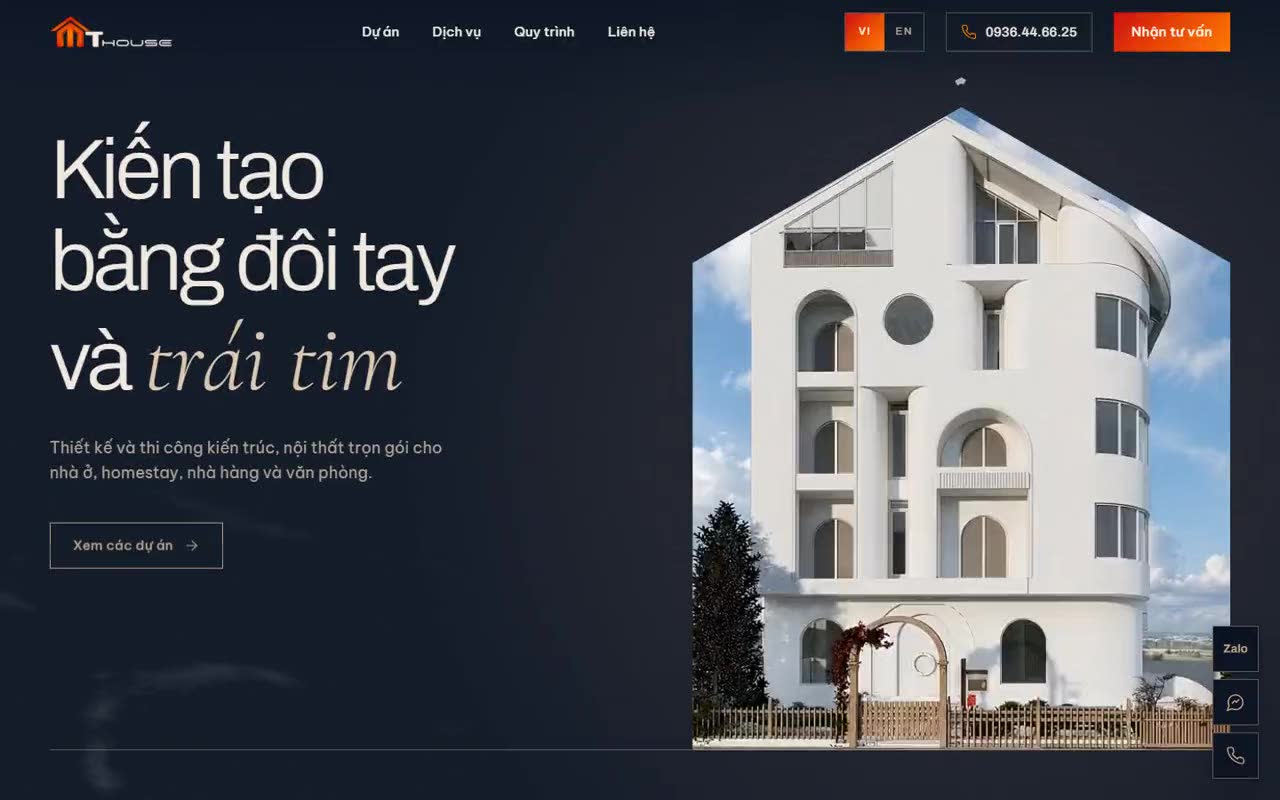
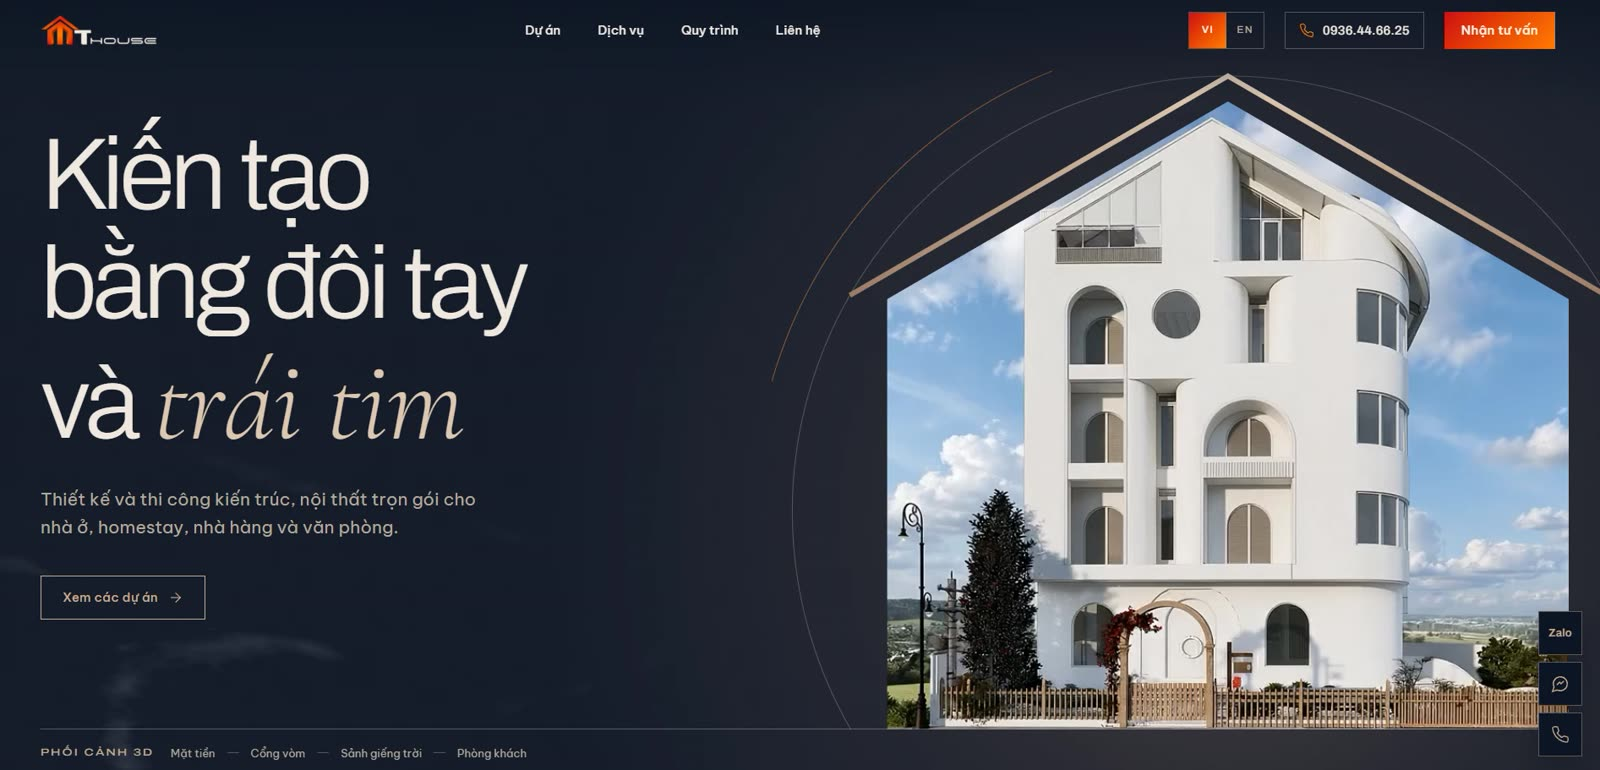
Use provided MTHouse stills, drop feature highlights, hide on mobile
Stages 1 and 2 of the MTHouse.vn feature now use the owner's screenshots
(hero and skylight hall) in a 2:1 frame. The highlights grid and tech chips
under it are removed. The feature block is hidden below 768px so phone
visitors reach the project grid sooner; links to it fall back to the grid.

diff --git a/src/sections/Featured.jsx b/src/sections/Featured.jsx
@@ -9,6 +9,7 @@ const STEP_MS = 3500;
 
 // Khối dự án nổi bật: khung trình duyệt lần lượt hiện các khung hình cắt từ lúc cuộn
 // MTHouse.vn thật (ảnh tĩnh, không dùng video), phóng to dần khi cuộn tới.
+// Ẩn trên điện thoại để người xem tới thẳng danh sách dự án.
 const Featured = () => {
   const frameRef = useRef(null);
   const [active, setActive] = useState(0);
@@ -46,7 +47,7 @@ const Featured = () => {
   }, [inView, hold]);
 
   return (
-    <section id='featured' className='pt-section'>
+    <section id='featured' className='hidden pt-section md:block'>
       <div className='wrap'>
         <motion.div
           initial={{ opacity: 0, y: 32 }}
@@ -87,16 +88,16 @@ const Featured = () => {
             </a>
           </div>
 
-          <div className='relative aspect-[16/10]'>
+          <div className='relative aspect-[2/1]'>
             {featured.frames.map((f, i) => (
               <img
                 key={f.src}
                 src={f.src}
                 alt={`${featured.name}: ${f.caption}`}
-                width='1280'
+                width='1600'
                 height='800'
                 loading='lazy'
-                className={`absolute inset-0 h-full w-full object-cover transition-opacity duration-700 ${
+                className={`absolute inset-0 h-full w-full object-cover object-top transition-opacity duration-700 ${
                   i === active ? "opacity-100" : "opacity-0"
                 }`}
               />
@@ -134,23 +135,7 @@ const Featured = () => {
           </ol>
         </div>
 
-        <div className='mt-12 grid gap-px overflow-hidden rounded-2xl border border-line bg-line sm:grid-cols-2 lg:grid-cols-4'>
-          {featured.highlights.map((h) => (
-            <div key={h.title} className='bg-primary p-6'>
-              <h3 className='text-[22px] font-bold leading-tight text-white'>{h.title}</h3>
-              <p className='mt-2 text-[15px] text-secondary'>{h.text}</p>
-            </div>
-          ))}
-        </div>
-
-        <div className='mt-8 flex flex-wrap items-center justify-between gap-6'>
-          <ul className='flex flex-wrap gap-2' aria-label='Công nghệ sử dụng'>
-            {featured.stack.map((item) => (
-              <li key={item} className='rounded-full border border-line px-3 py-1 text-sm text-white-100'>
-                {item}
-              </li>
-            ))}
-          </ul>
+        <div className='mt-8 flex justify-end'>
           <a href={featured.url} target='_blank' rel='noopener noreferrer' className='cta'>
             Trải nghiệm hiệu ứng cuộn
             <span className='cta__arrow'>↗</span>

diff --git a/src/constants/index.js b/src/constants/index.js
@@ -26,13 +26,6 @@ export const featured = {
   ],
   summary:
     "Website công ty kiến trúc & nội thất MT House. Toàn bộ trang kể chuyện bằng chuyển động theo cuộn: mở đầu phóng vào cổng vòm, công trình trượt ngang, chữ và nét vẽ hiện dần theo nhịp cuộn.",
-  highlights: [
-    { title: "Hero phóng to theo cuộn", text: "Cuộn tới đâu, khung hình tiến sâu vào công trình tới đó." },
-    { title: "Công trình trượt ngang", text: "Section được ghim lại, cuộn dọc biến thành trượt ngang qua từng dự án." },
-    { title: "Chữ & nét vẽ hiện theo nhịp", text: "Tiêu đề tách dòng, bản vẽ tự vẽ ra khi cuộn tới." },
-    { title: "Cuộn mượt toàn trang", text: "Cuộn có quán tính, đồng bộ với mọi hiệu ứng." },
-  ],
-  stack: ["WordPress", "GSAP ScrollTrigger", "Lenis", "Next.js → theme WP", "Song ngữ Việt / Anh"],
 };
 
 export const projects = [

diff --git a/src/smooth.js b/src/smooth.js
@@ -25,7 +25,9 @@ export const startSmoothScroll = () => {
 };
 
 export const scrollToId = (id) => {
-  const target = id === "top" ? 0 : document.getElementById(id);
+  let target = id === "top" ? 0 : document.getElementById(id);
+  // Khối dự án nổi bật bị ẩn trên điện thoại: nhảy thẳng tới danh sách dự án.
+  if (target && target.offsetParent === null) target = document.getElementById("projects");
   if (lenis) lenis.scrollTo(target, { offset: id === "top" ? 0 : -80 });
   else if (target === 0) window.scrollTo(0, 0);
   else target?.scrollIntoView();
